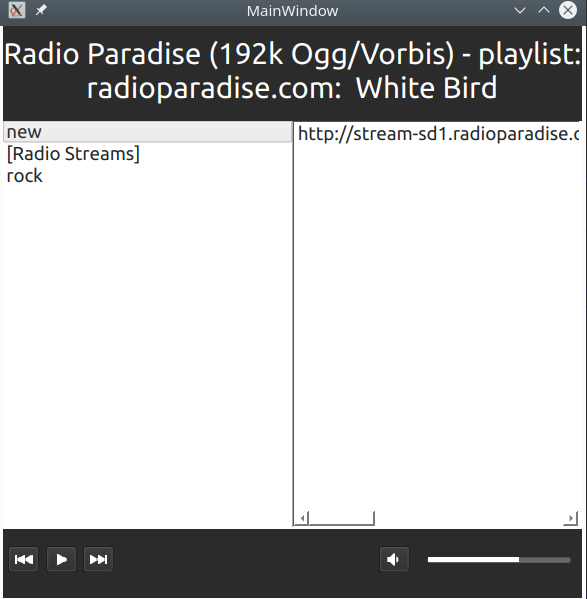
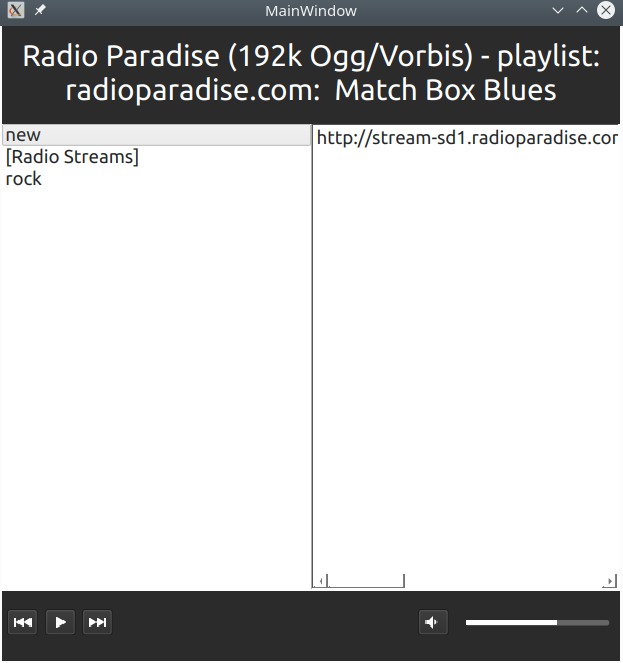
Update layout margin, and screenshot.

Changed region(s): [[0.0, 0.0, 1.0, 1.0]]

diff --git a/python_mpd/ui_mainwindow.py b/python_mpd/ui_mainwindow.py
@@ -3,7 +3,7 @@
 # Form implementation generated from reading ui file 'mainwindow.ui',
 # licensing of 'mainwindow.ui' applies.
 #
-# Created: Fri Nov 22 09:17:10 2019
+# Created: Fri Nov 22 09:33:30 2019
 #      by: pyside2-uic  running on PySide2 5.13.0
 #
 # WARNING! All changes made in this file will be lost!
@@ -142,6 +142,7 @@ class Ui_MainWindow(object):
         self.now_playing_label.setStyleSheet("color: white;")
         self.now_playing_label.setAlignment(QtCore.Qt.AlignCenter)
         self.now_playing_label.setWordWrap(True)
+        self.now_playing_label.setMargin(10)
         self.now_playing_label.setObjectName("now_playing_label")
         self.gridLayout.addWidget(self.now_playing_label, 0, 0, 1, 1)
         self.gridLayout_3 = QtWidgets.QGridLayout()
@@ -192,5 +193,5 @@ class Ui_MainWindow(object):
 
     def retranslateUi(self, MainWindow):
         MainWindow.setWindowTitle(QtWidgets.QApplication.translate("MainWindow", "MainWindow", None, -1))
-        self.now_playing_label.setText(QtWidgets.QApplication.translate("MainWindow", "Now playing.", None, -1))
+        self.now_playing_label.setText(QtWidgets.QApplication.translate("MainWindow", "dfsdfsdfsdfsdfsdfsdfsdfsdfsdfsdfsdfsdfsdfsdfsdfsdfsdfsdf", None, -1))
 
